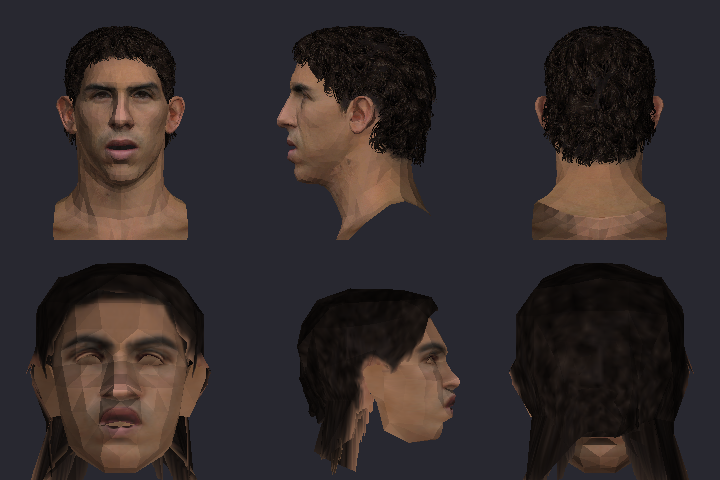
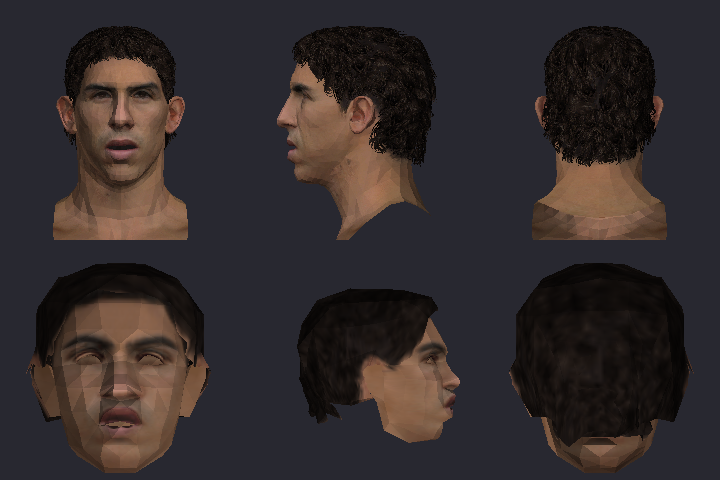
Tevez v2: pelo corto, sin la melena del molde

diff --git a/fox2pes5/trim_hair.py b/fox2pes5/trim_hair.py
@@ -1,0 +1,50 @@
+"""Recorta el pelo convertido: quita los triangulos donde la textura es transparente
+(melena del molde por debajo de la nuca y patillas largas) y rehace las tiras."""
+import sys
+sys.path.insert(0, '/projects/sandbox/tevez/tools'); sys.path.insert(0, '/projects/sandbox/tevez/work')
+import pes5, align
+from pesport import container, xbox_model as xm
+
+SRC = sys.argv[1] if len(sys.argv) > 1 else 'out_hair.bin'
+DST = sys.argv[2] if len(sys.argv) > 2 else 'out_hair_trim.bin'
+MIN_ALPHA = 0.35        # alfa media minima del triangulo para conservarlo
+NAPE_Y = 1.605          # m (espacio Fox): por debajo no hay pelo en Tevez
+
+secs = pes5.load(SRC)
+hm = xm.read(secs[0]); tex = pes5.tex_image(secs[1])
+V = hm.vertices
+
+
+def alpha_of(t):
+    pts = [V[i] for i in t]
+    samples = [p[6:8] for p in pts]
+    for a in range(3):
+        b = (a + 1) % 3
+        samples.append(((pts[a][6] + pts[b][6]) / 2, (pts[a][7] + pts[b][7]) / 2))
+    samples.append((sum(p[6] for p in pts) / 3, sum(p[7] for p in pts) / 3))
+    return sum(tex.sample(u, v)[3] for u, v in samples) / len(samples) / 255.0
+
+
+removed = kept = 0
+for part in hm.parts:
+    tris = xm.strip_triangles(part.indices)
+    good = []
+    for t in tris:
+        ys = [align.W(V[i][:3])[1] for i in t]
+        if alpha_of(t) >= MIN_ALPHA and sum(ys) / 3 >= NAPE_Y and min(ys) >= NAPE_Y - 0.012:
+            good.append(t)
+        else:
+            removed += 1
+    kept += len(good)
+    if not good:   # una parte vacia: se deja un triangulo degenerado minimo
+        good_strip = [part.vstart] * 3
+        part.indices, part.ntris = good_strip, 0
+        continue
+    strip = xm.build_strip(good)
+    assert [xm.canonical(t) for t in xm.strip_triangles(strip)] == [xm.canonical(t) for t in good]
+    part.indices = strip
+    part.ntris = len(xm.strip_triangles(strip))
+print('triangulos conservados %d, quitados %d' % (kept, removed))
+raw = container.join([xm.write(hm), secs[1], secs[2]])
+open(DST, 'wb').write(container.pack(raw))
+print('escrito', DST)
